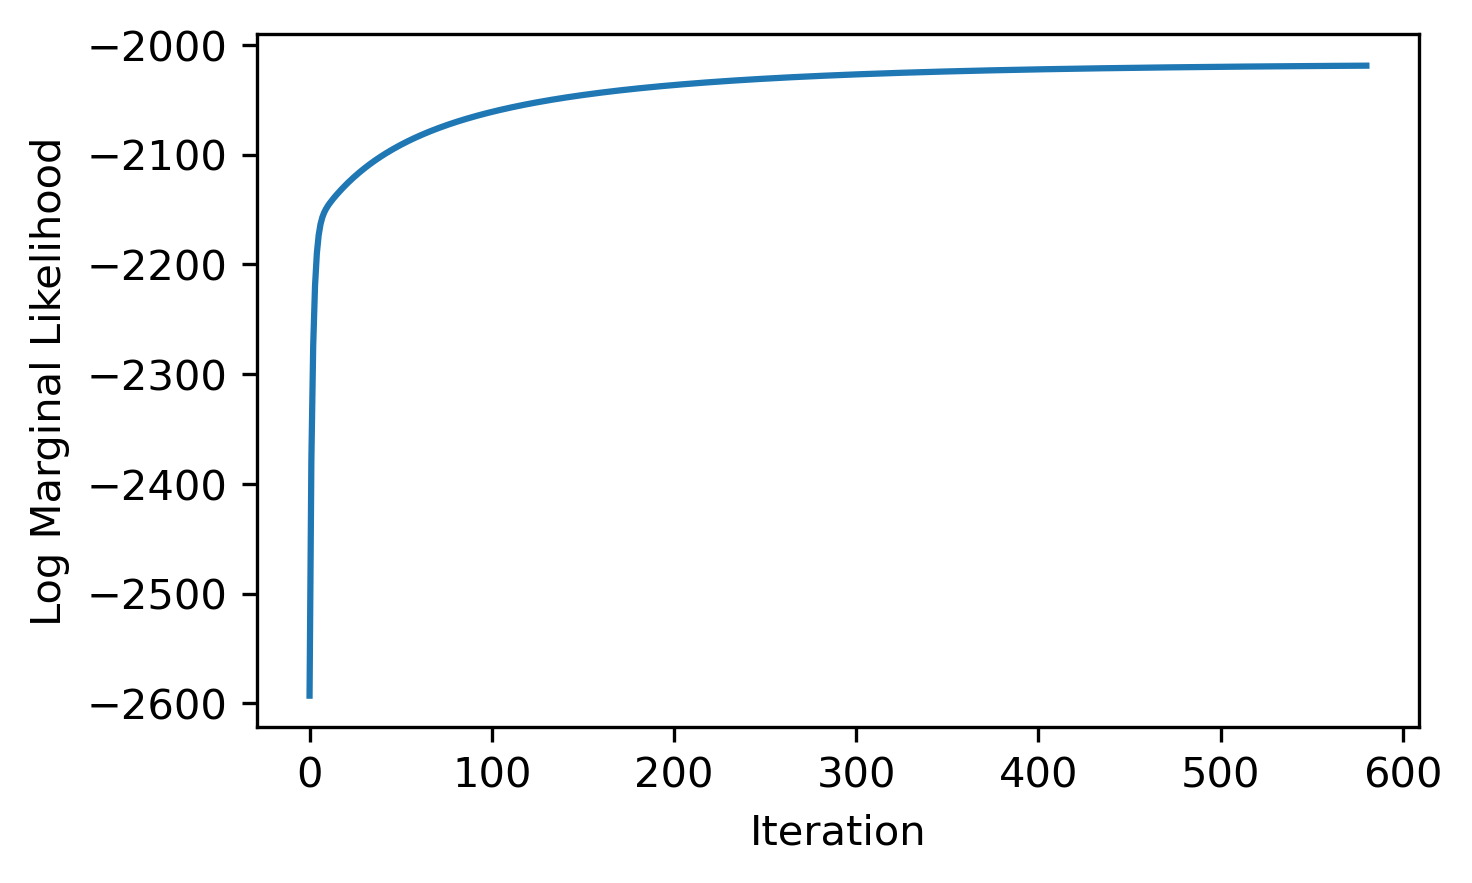
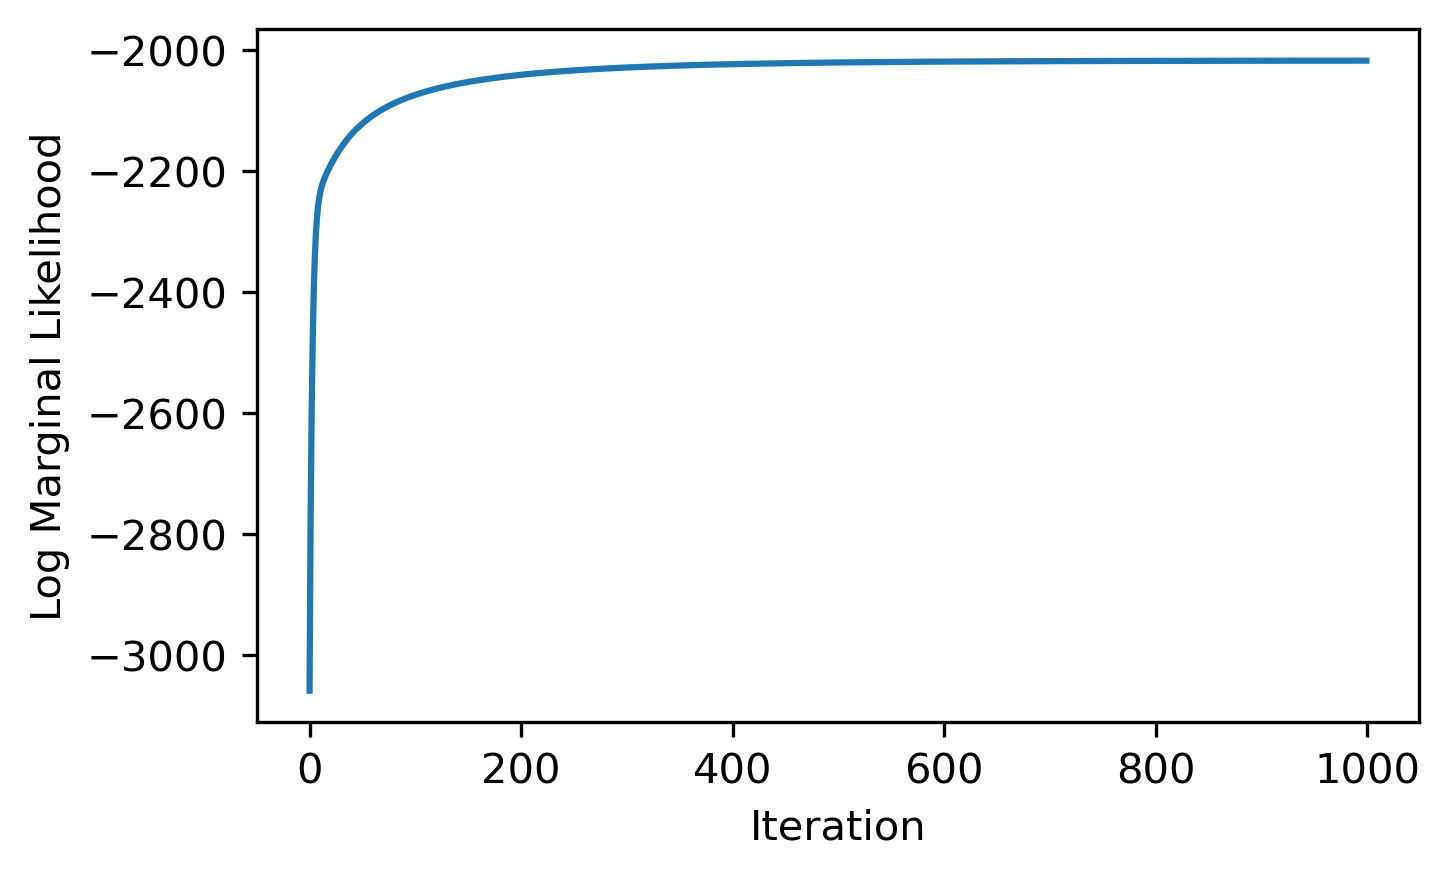
update

Changed region(s): [[0.0, 0.0308, 0.9931, 0.8918], [0.4966, 0.9226, 0.6517, 0.9841]]

diff --git a/main.py b/main.py
@@ -6,7 +6,7 @@ from sklearn.metrics import mean_squared_error
 from sklearn.model_selection import GridSearchCV, RepeatedKFold
 from code.em_algorithm import EMAlgorithm
 from code.lasso import ElasticNet, lambda_search
-from code.utils import cv_boxplot, generate_data, load_data, split_train_test, cross_validate
+from code.utils import cv_boxplot, generate_data, load_data, plot_E_beta, plot_E_beta_2, plot_E_beta_2_diag, split_train_test, cross_validate
 from code.variational_inference import VariationalInference
 
 
@@ -43,13 +43,13 @@ def variational_inference(y, Z, X, omega_init, sigma_b2_init, sigma_e2_init, max
     vi_params = {'max_iter': max_iter, 'tol': tol, 'omega': omega_init, 'sigma_b2': sigma_b2_init, 'sigma_e2': sigma_e2_init}
     vi = VariationalInference(**vi_params)
 
-    # log_marginal_likelihoods, Theta = vi.fit(y, Z, X)
+    log_marginal_likelihoods, Theta = vi.fit(y, Z, X)
   
-    # print("Log marginal likelihoods:", log_marginal_likelihoods)
-    # print("Estimate of Theta:", Theta)
+    print("Log marginal likelihoods:", log_marginal_likelihoods)
+    print("Estimate of Theta:", Theta)
 
-    # y_train_pred = vi.predict(Z, X)
-    # print('EM Train MSE:', mean_squared_error(y, y_train_pred))
+    y_train_pred = vi.predict(Z, X)
+    print('EM Train MSE:', mean_squared_error(y, y_train_pred))
 
     # Plot marginal likelihood
     vi.plot_marginal_likelihood_and_elbo('outputs/log_marginal_likelihoods_vi.png')
@@ -68,7 +68,7 @@ def variational_inference(y, Z, X, omega_init, sigma_b2_init, sigma_e2_init, max
 def lasso(y, Z, X, cv_folds=10):
 
     # ---------------- LASSO -----------------
-    lasso_params = {'alpha': 0.001, 'fit_intercept': False, 'l1_ratio': 1.0, 'max_iter': 1000}
+    lasso_params = {'alpha': 0.01227734, 'fit_intercept': False, 'l1_ratio': 1.0, 'max_iter': 1000}
     lasso = ElasticNet(**lasso_params)
     
     lasso.fit(y, Z, X)
@@ -80,11 +80,13 @@ def lasso(y, Z, X, cv_folds=10):
     omega = omega_beta[:Z.shape[1]]
     beta = omega_beta[Z.shape[1]:]
 
+    np.save('outputs/beta_lasso.npy', beta)
+
     print("Estimated omega:", omega)
     print("Estimated beta:", beta)
 
     # Search for the best lambda
-    lambdas = np.arange(-7, -2, 0.1)
+    lambdas = np.arange(-8, 0, 0.1)
     lambdas = np.exp(lambdas)
     min_mse, min_average_row = lambda_search(y, Z, X, ElasticNet, lasso_params, lambda_list = lambdas, save_path='outputs/lasso_cv_mses_all.csv', cv_folds=cv_folds)
     print("Minimum MSE:", min_mse)
@@ -97,15 +99,31 @@ if __name__ == '__main__':
 
     y, Z, X = load_data(path='data/lmm_y_z_x.txt')
 
-    # em_algorithm(y, Z, X, omega_init=np.zeros(10), sigma_b2_init=0.5, sigma_e2_init=0.5, max_iter=1000, tol=1e-2, cv_folds=10)
+    # ---------------- EM -----------------
 
+    # em_algorithm(y, Z, X, omega_init=np.zeros(10), sigma_b2_init=1, sigma_e2_init=1, max_iter=1000, tol=1e-6, cv_folds=10)
 
-    # lasso(y, Z, X, cv_folds=10)
+    # plot_E_beta_2(data_path='outputs/E_beta_2_em.npy', save_path='outputs/E_beta_2_em.png')
+    # plot_E_beta(data_path='outputs/E_beta_em.npy', save_path='outputs/E_beta_em.png')
+    # plot_E_beta_2_diag(data_path='outputs/E_beta_2_em.npy', save_path='outputs/E_beta_2_diag_em.png')
+
+    # ---------------- Lasso -----------------
+
+    lasso(y, Z, X, cv_folds=10)
+
+    plot_E_beta(data_path='outputs/E_beta_vi.npy', save_path='outputs/E_beta_vi.png')
 
     # cv_boxplot(cv_mses_dirs=['outputs/em_cv_mses.csv', 'outputs/lasso_cv_mses.csv'], save_path='outputs/cv_boxplot.png', labels=['EM', 'LASSO'])    
 
-    variational_inference(y, Z, X, omega_init=np.zeros(10), sigma_b2_init=1, sigma_e2_init=0.5, max_iter=100, tol=1e-6, cv_folds=10)
+    # ---------------- VI -----------------
 
-    # cv_boxplot(cv_mses_dirs=['outputs/em_cv_mses.csv', 'outputs/lasso_cv_mses.csv', 'outputs/vi_cv_mses.csv'], save_path='outputs/cv_boxplot_2.png', labels=['EM', 'LASSO', 'VI'])
+    # variational_inference(y, Z, X, omega_init=np.zeros(10), sigma_b2_init=0.8, sigma_e2_init=0.2, max_iter=100, tol=1e-6, cv_folds=10)
+
+    # plot_E_beta(data_path='outputs/E_beta_vi.npy', save_path='outputs/E_beta_vi.png')
+    # plot_E_beta_2_diag(data_path='outputs/E_beta_2_diag_vi.npy', save_path='outputs/E_beta_2_diag_vi.png')
+
+    cv_boxplot(cv_mses_dirs=['outputs/em_cv_mses.csv', 'outputs/lasso_cv_mses.csv', 'outputs/vi_cv_mses.csv'], save_path='outputs/cv_boxplot_2.png', labels=['EM', 'LASSO', 'VI'])
+
+    
 
     

diff --git a/code/variational_inference.py b/code/variational_inference.py
@@ -71,6 +71,7 @@ class VariationalInference:
 
         ZTZZT = np.linalg.inv(Z.T @ Z) @ Z.T
         XXT = X @ X.T
+        XTX = X.T @ X
 
         XXT_eigen_values, _ = np.linalg.eig(XXT)
         
@@ -81,13 +82,13 @@ class VariationalInference:
 
             # E-step
             for j in range(p):
-                s2[j] = (X[:, j].T @ X[:, j] / sigma_e2 + 1 / sigma_b2) ** -1
+                s2[j] = 1 / (X[:, j].T @ X[:, j] / sigma_e2 + 1 / sigma_b2)
                 m[j] = s2[j] / sigma_e2 * (y - Z @ omega).T @ X[:, j]
             
             # M-step
             omega_new = ZTZZT @ (y - X @ m)
             sigma_b2_new = (m.T @ m + np.sum(s2)) / p  
-            sigma_e2_new = ((y - Z @ omega_new - X @ m).T @ (y - Z @ omega - X @ m) + np.trace(X @ np.diag(s2) @ X.T)) / n
+            sigma_e2_new = ((y - Z @ omega_new - X @ m).T @ (y - Z @ omega - X @ m) + np.trace(np.diag(s2) @ XTX)) / n
 
             # break
             Theta_new = np.hstack((omega_new, sigma_b2_new, sigma_e2_new))
@@ -102,19 +103,25 @@ class VariationalInference:
             sigma_b2 = sigma_b2_new
             Theta = Theta_new
 
+            print(Theta)
+            print(np.mean(m))
+            print(np.mean(s2))
+
             # Compute marginal likelihood
-            Diag = XXT_eigen_values / sigma_e2 + 1 / sigma_b2
-            log_marginal_likelihood = -np.sum(np.log(Diag)) / 2 - n / 2 * np.log(sigma_b2) - n / 2 * np.log(sigma_e2) - n / 2 * np.log(2 * np.pi) - 1 / 2 * np.sum((y - Z @ omega) ** 2 / Diag)
+            # Diag = XXT_eigen_values / sigma_e2 + 1 / sigma_b2
 
-            E_1 = -(n + p) / 2 * np.log(2 * np.pi) - n / 2 * np.log(sigma_e2) - p / 2 * np.log(sigma_b2) - 1 / (2 * sigma_e2) * (y - Z @ omega).T @ (y - Z @ omega) + 1 / sigma_e2 * (y - Z @ omega).T @ X @ m - 1 / (2 * sigma_e2) * (np.trace(X @ np.diag(s2) @ X.T) + m.T @ X.T @ X @ m) - 1 / (2 * sigma_b2) * (np.sum(s2) + m.T @ m)
-            E_2 = -p / 2 * np.log(2 * np.pi) - 1 / 2 * np.sum(np.log(s2)) - p / 2
-            ELBO = E_1 + E_2 + 10000
+            # log_marginal_likelihood = -np.sum(np.log(Diag)) / 2 - n / 2 * np.log(sigma_b2) - n / 2 * np.log(sigma_e2) - n / 2 * np.log(2 * np.pi) - 1 / 2 * np.sum((y - Z @ omega) ** 2 / Diag)
 
-            log_marginal_likelihoods.append(log_marginal_likelihood)
-            ELBOs.append(ELBO)
 
-            print(log_marginal_likelihood)
-            print(ELBO)
+            # E_1 = -(n + p) / 2 * np.log(2 * np.pi) - n / 2 * np.log(sigma_e2) - p / 2 * np.log(sigma_b2) - 1 / (2 * sigma_e2) * (y - Z @ omega).T @ (y - Z @ omega) + 1 / sigma_e2 * (y - Z @ omega).T @ X @ m - 1 / (2 * sigma_e2) * (np.trace(X @ np.diag(s2) @ X.T) + m.T @ X.T @ X @ m) - 1 / (2 * sigma_b2) * (np.sum(s2) + m.T @ m)
+            # E_2 = -p / 2 * np.log(2 * np.pi) - 1 / 2 * np.sum(np.log(s2)) - p / 2
+            # ELBO = E_1 + E_2
+
+            # log_marginal_likelihoods.append(log_marginal_likelihood)
+            # ELBOs.append(ELBO)
+
+            # print(log_marginal_likelihood)
+            # print(ELBO)
 
         self.n = n
         self.p = p
@@ -122,16 +129,20 @@ class VariationalInference:
         self.log_marginal_likelihoods = np.array(log_marginal_likelihoods)
         self.ELBOs = np.array(ELBOs)
         self.Theta = Theta
-        self.m = m
+        self.E_beta = m
+        self.E_beta_2_diag = s2
 
         np.savetxt('outputs/log_marginal_likelihoods_vi.csv', log_marginal_likelihoods, delimiter=',')
         np.savetxt('outputs/ELBOs.csv', ELBOs, delimiter=',')
+
+        np.save('outputs/E_beta_vi.npy', self.E_beta)
+        np.save('outputs/E_beta_2_diag_vi.npy', self.E_beta_2_diag)
 
         return log_marginal_likelihoods, Theta
 
     def predict(self, Z, X):
         omega = self.Theta[:self.c]
-        E_beta = self.m
+        E_beta = self.E_beta
 
         y_hat = Z @ omega + X @ E_beta
 

diff --git a/code/utils.py b/code/utils.py
@@ -93,4 +93,34 @@ def cv_boxplot(cv_mses_dirs, save_path='cv_boxplot.png', labels=['EM', 'LASSO', 
         cv_mses_ = np.genfromtxt(cv_mses_dirs[i])
         cv_mses.append(cv_mses_)
 
+        print(labels[i], ':', np.mean(cv_mses_))
+
     cv_boxplot_2(cv_mses, save_path, labels)
+
+def plot_E_beta_2(data_path, save_path='outputs/E_beta.png'):
+    E_beta_2 = np.load(data_path)
+    
+    plt.figure(figsize=(5, 3), dpi=300)
+    plt.imshow(E_beta_2, cmap='Blues', interpolation='nearest')
+    plt.colorbar()
+    plt.savefig(save_path, bbox_inches='tight')
+    plt.close()
+
+def plot_E_beta_2_diag(data_path, save_path='outputs/E_beta.png'):
+    E_beta_2 = np.load(data_path)
+
+    if E_beta_2.ndim == 2:
+        E_beta_2 = np.diagonal(E_beta_2)
+
+    plt.figure(figsize=(5, 3), dpi=300)
+    plt.plot(E_beta_2)
+    plt.savefig(save_path, bbox_inches='tight')
+    plt.close()
+
+def plot_E_beta(data_path, save_path='outputs/E_beta.png'):
+    E_beta = np.load(data_path)
+
+    plt.figure(figsize=(5, 3), dpi=300)
+    plt.plot(E_beta, color='red')
+    plt.savefig(save_path, bbox_inches='tight')
+    plt.close()

diff --git a/code/em_algorithm.py b/code/em_algorithm.py
@@ -63,6 +63,7 @@ class EMAlgorithm:
 
         ZTZZT = np.linalg.inv(Z.T @ Z) @ Z.T
         XXT = X @ X.T
+        XTX = X.T @ X
         XXT_eigen_values, XXT_eigen_vectors = np.linalg.eig(XXT)
         
         for i in tqdm(range(self.max_iter), desc='EM Algorithm'): 
@@ -95,7 +96,10 @@ class EMAlgorithm:
             if np.linalg.norm(Theta_new - Theta) < self.tol:
                 break
 
-        
+            omega = omega_new
+            sigma_e2 = sigma_e2_new
+            sigma_b2 = sigma_b2_new
+            Theta = Theta_new
 
         self.n = n
         self.p = p
@@ -103,6 +107,11 @@ class EMAlgorithm:
         self.log_marginal_likelihoods = log_marginal_likelihoods
         self.Theta = np.hstack((omega, sigma_b2, sigma_e2))
         self.E_beta = mu
+        self.E_beta_2 = np.linalg.inv(XTX / sigma_e2 + np.eye(p) / sigma_b2)
+
+        np.save('outputs/E_beta_em.npy', self.E_beta)
+        np.save('outputs/E_beta_2_em.npy', self.E_beta_2)
+
         return log_marginal_likelihoods, self.Theta, self.E_beta
 
     def predict(self, Z, X):

diff --git a/code/lasso.py b/code/lasso.py
@@ -123,7 +123,7 @@ def enet_coordinate_descent(
                 const = 1.0
                 gap = R_norm2
 
-            l1_norm = np.sum(np.abs(w[b_index:]))
+            l1_norm = np.sum(np.abs(w))
 
             gap += l1_norm - const * np.dot(R, y)
         
